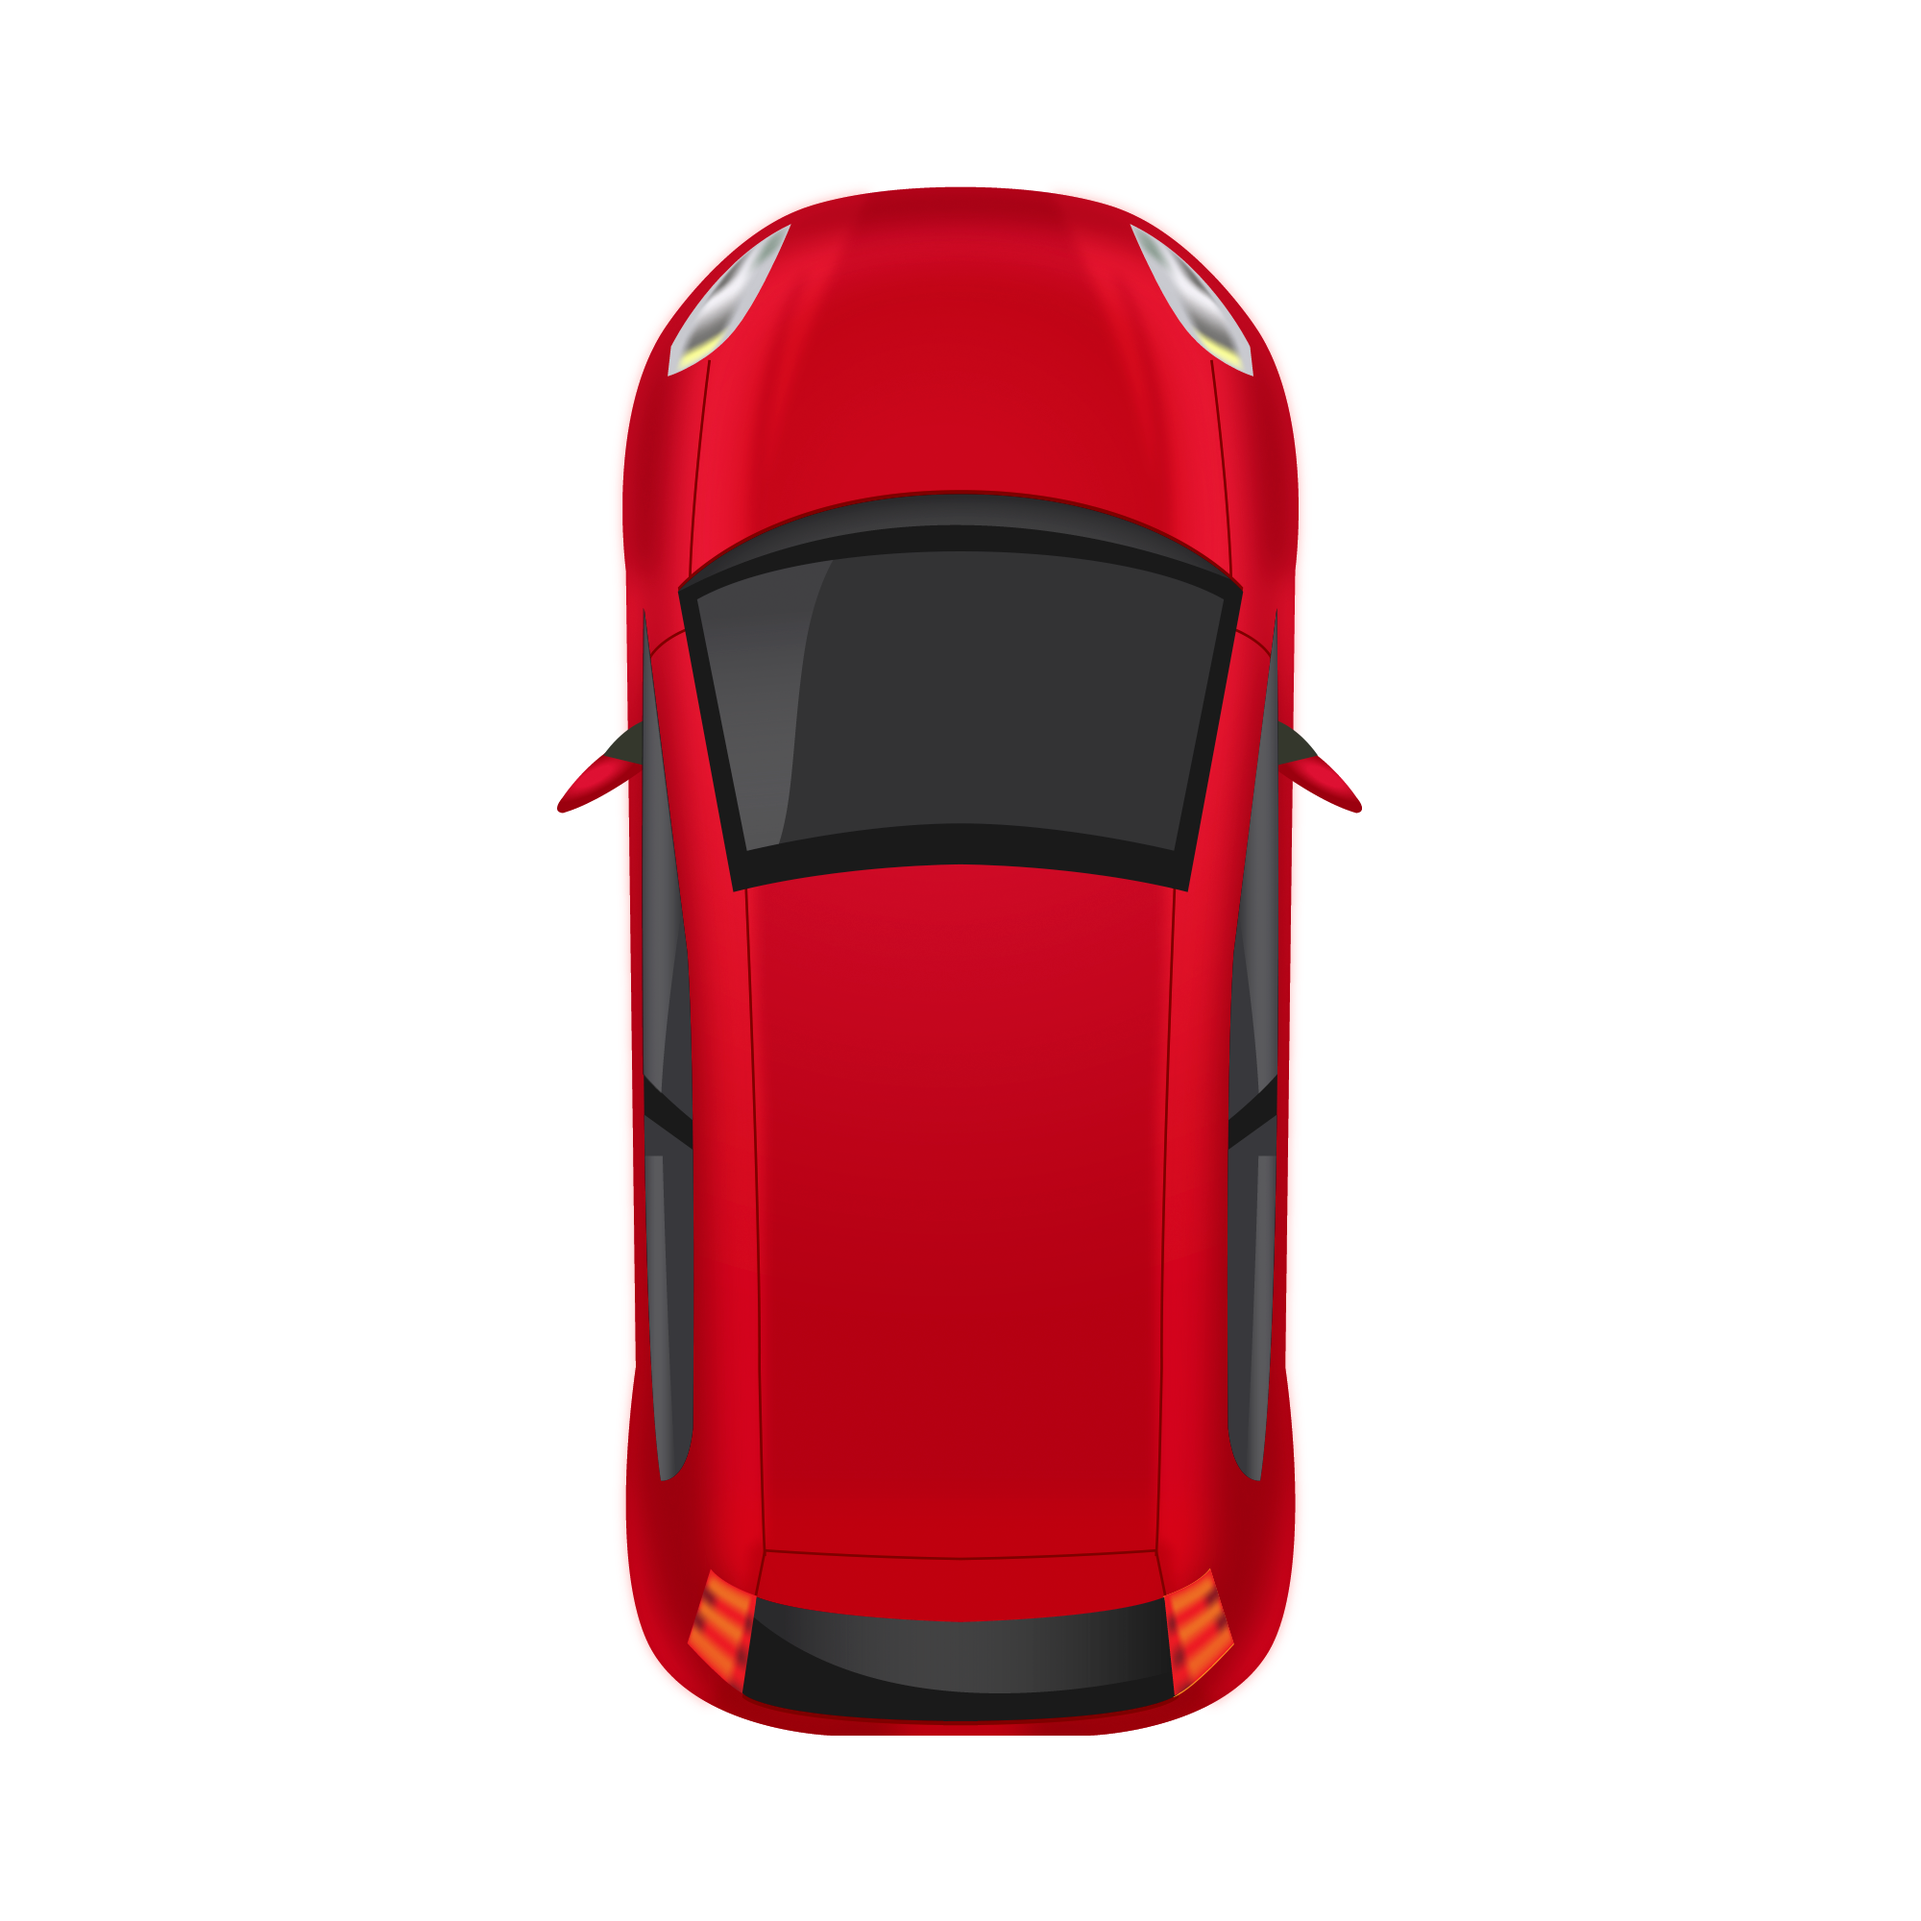
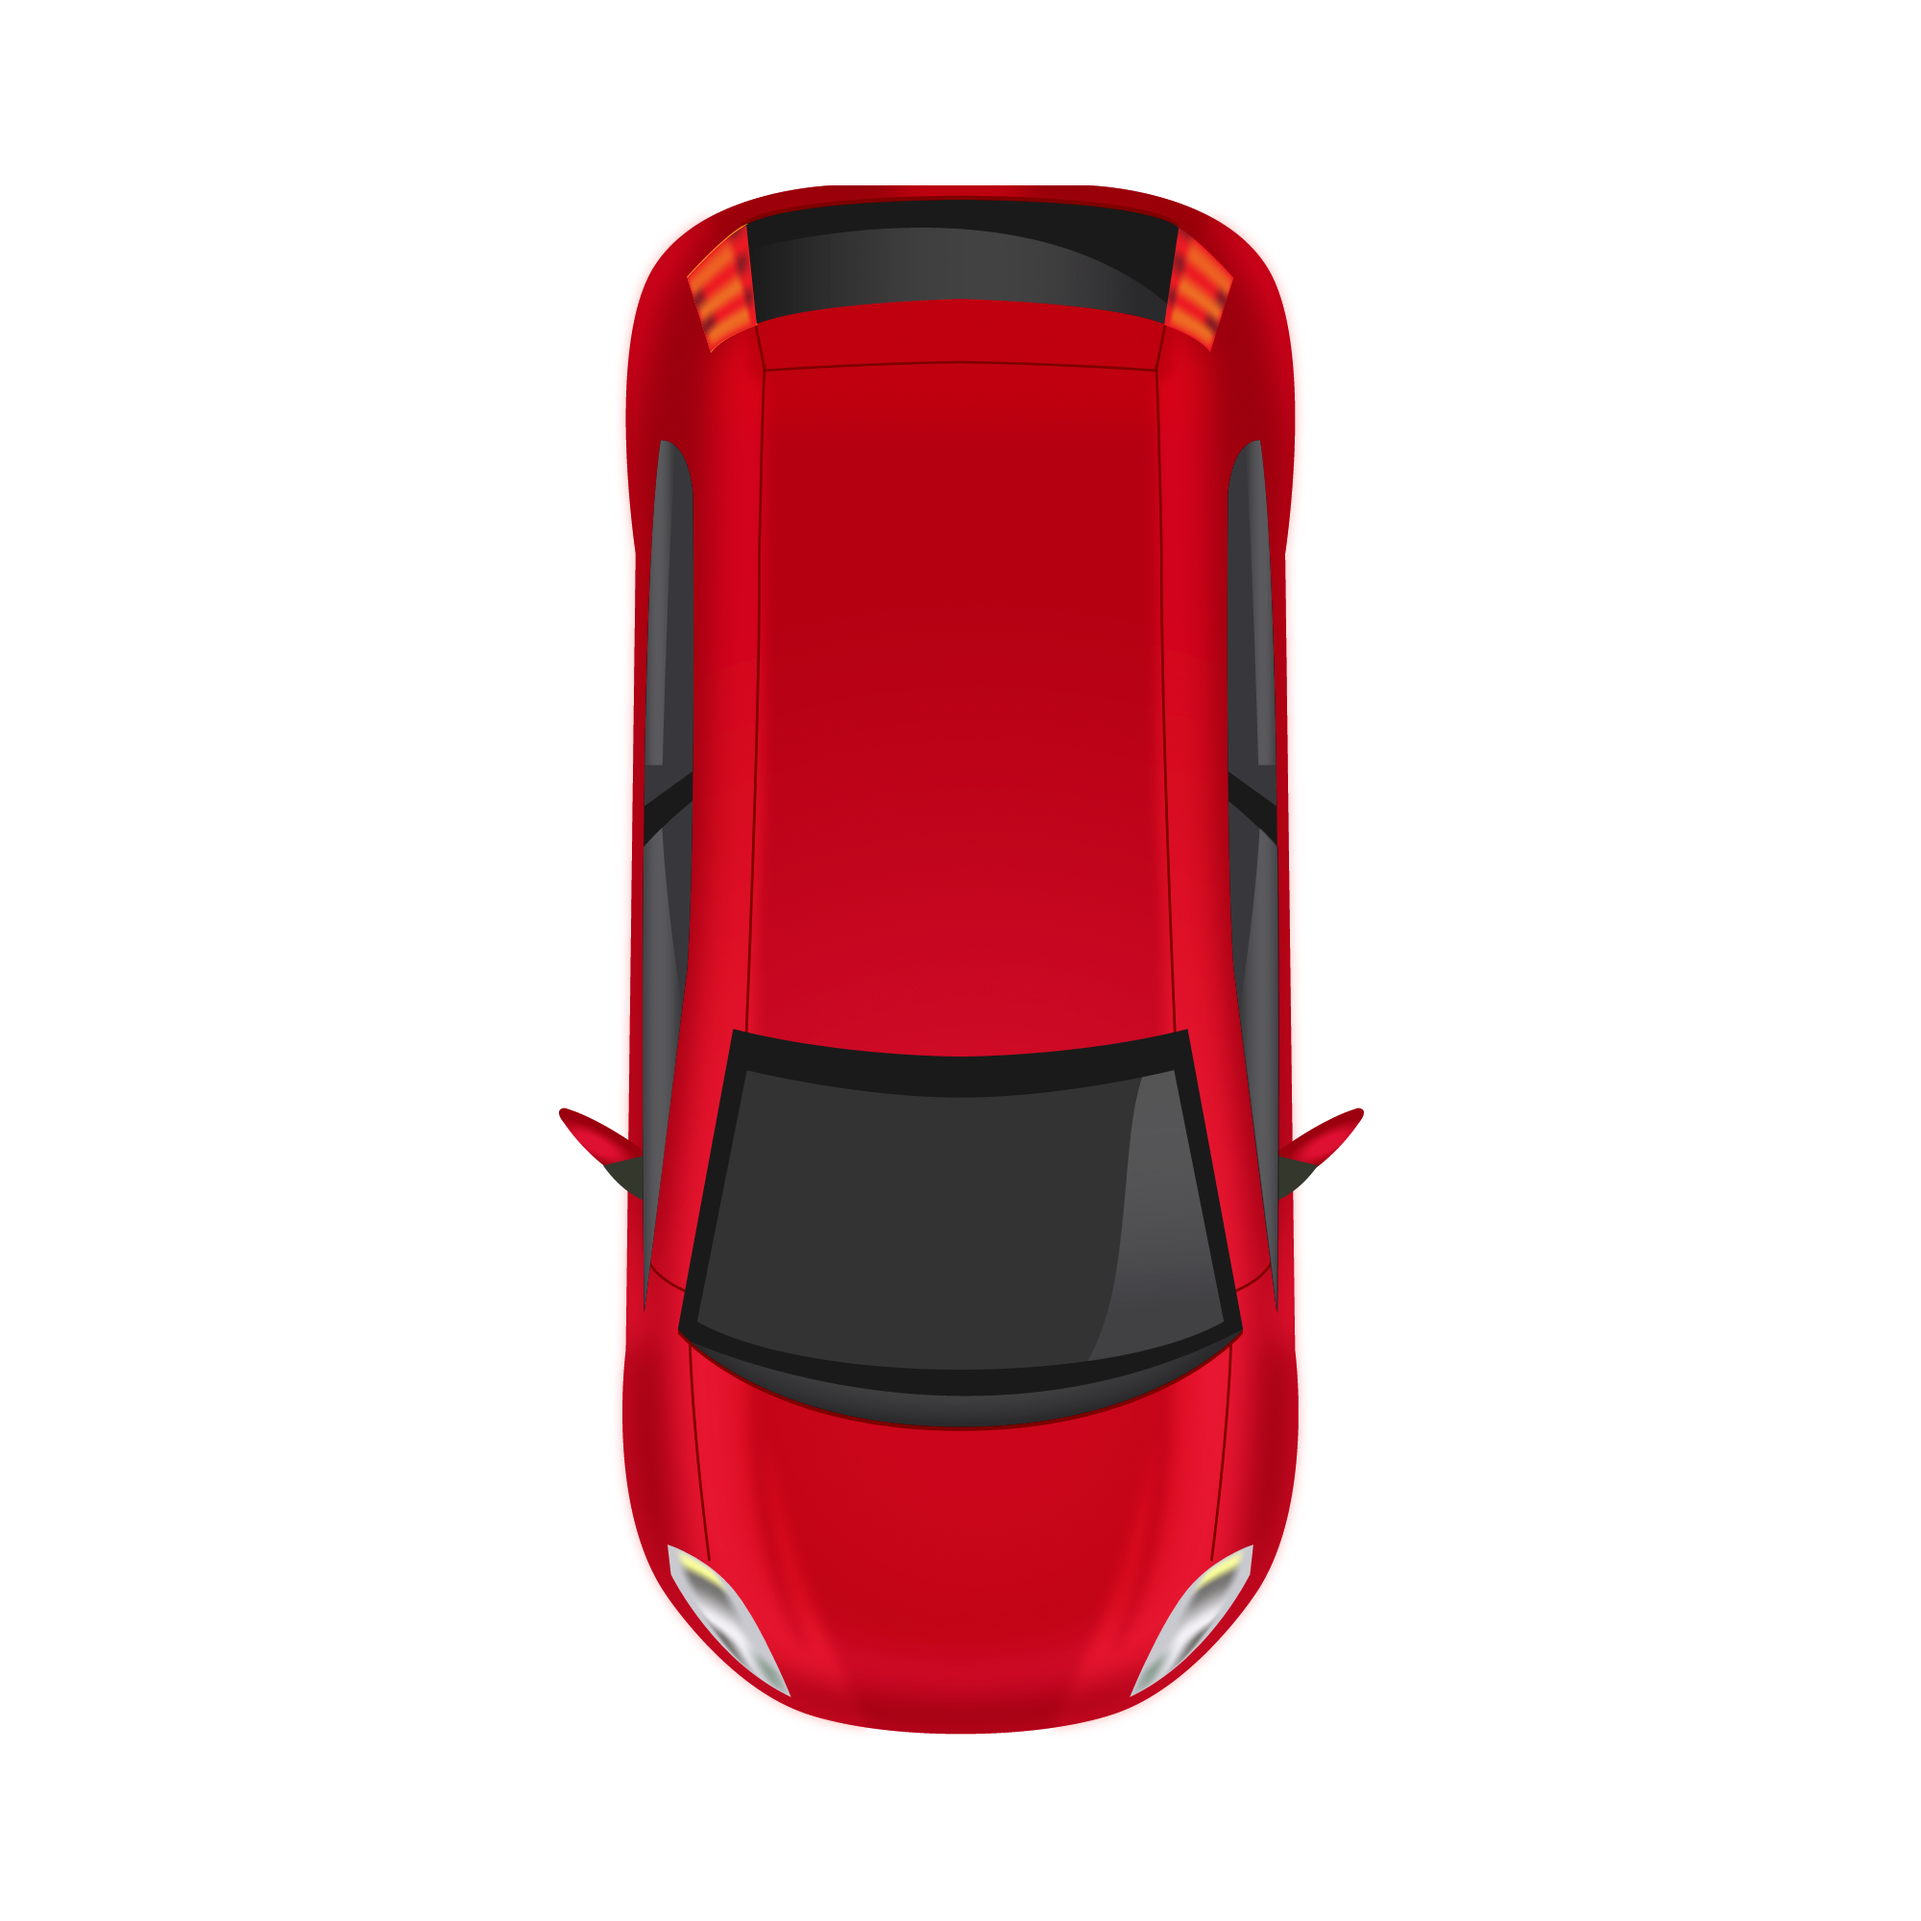
Set road and cars direction

Changed region(s): [[0.279, 0.093, 0.713, 0.496], [0.279, 0.527, 0.713, 0.93]]

diff --git a/Assignment-1/index.html b/Assignment-1/index.html
@@ -4,17 +4,17 @@
 <head>
     <meta charset="UTF-8">
     <meta name="viewport" content="width=device-width, initial-scale=1.0">
-    <title>Mini Car Racing Game</title>
+    <title>Speed Racer</title>
     <link rel="stylesheet" href="style.css">
 </head>
 
 <body>
 
-    <h1>MINI CAR RACING GAME</h1>
-
+    <h1>🏎 SPEED RACER 🏎</h1>
+    <p>Avoid the traffic and survive!</p>
     <div class="score">
-        <span>Score: 200</span>
-        <span>Speed: 70 km/h</span>
+        <span>Score: 200</span>&emsp;
+        <span>Speed: 70 km/h</span>&emsp;
         <span>Level: 2</span>
     </div>
 
@@ -25,14 +25,15 @@
             <div class="line line1"></div>
             <div class="line line2"></div>
 
-            <img class="car1" src="/10382282.png" alt="car1" height="100px" width="100xp">
-            <img class="car2" src="/10382555.png" alt="car2" height="100px" width="100xp">
-            <img class="car3" src="/10382282.png" alt="car3" height="100px" width="100xp">
+            <img class="car1" src="/10382282.png" alt="car1" height="100px" width="100px">
+            <img class="car2" src="/10382555.png" alt="car2" height="100px" width="100px">
+            <img class="car3" src="/10382282.png" alt="car3" height="100px" width="100px">
 
         </div>
     </div>
+    <p>Avoid the cars!</p>
+    <p><strong>⬅ Left </strong> &nbsp; <strong> Right ➡ </strong> </p>
     <button class="start">START RACE</button>
-    <p>Drive carefully</p>
 
 </body>
 

diff --git a/Assignment-1/style.css b/Assignment-1/style.css
@@ -10,6 +10,11 @@ h1 {
   margin: 20px;
 }
 
+p {
+  color: white;
+  font-weight: bold;
+}
+
 .score {
   color: white;
   background-color: rgb(129, 98, 67);
@@ -37,22 +42,22 @@ h1 {
 }
 
 .line {
-  width: 5px;
+  width: 4px;
   height: 100%;
   background-color: white;
   position: absolute;
 }
 
 .line1 {
-  left: 33%;
+  left: 33.33%;
 }
 
 .line2 {
-  left: 66%;
+  left: 66.66%;
 }
 
 .line3 {
-  left: 99%;
+  left: 99.99%;
 }
 
 .road img {
@@ -63,26 +68,26 @@ h1 {
 
 .car1 {
   left: 10%;
-  animation: carMove 3s linear infinite;
+  animation: carMove 2s linear infinite;
 }
 
 .car2 {
   left: 43%;
-  animation: carMove 4s linear infinite;
+  top: 450px;
 }
 
 .car3 {
   left: 75%;
-  animation: carMove 5s linear infinite;
+  animation: carMove 2s linear infinite;
 }
 
 @keyframes carMove {
   0% {
-    top: 100%;
+    top: -100px;
   }
 
   100% {
-    top: -100px;
+    top: 100%;
   }
 }
 
@@ -101,15 +106,6 @@ button:hover {
 }
 
 @media (max-width: 600px) {
-  h1 {
-    font-size: 25px;
-  }
-
-  .score {
-    width: 80%;
-    font-size: 14px;
-  }
-
   .road {
     width: 90%;
     height: 600px;
@@ -123,9 +119,9 @@ button:hover {
   .line {
     width: 4px;
   }
+}
 
-  button {
-    font-size: 16px;
-    padding: 8px 20px;
-  }
+button {
+  font-size: 16px;
+  padding: 8px 20px;
 }
